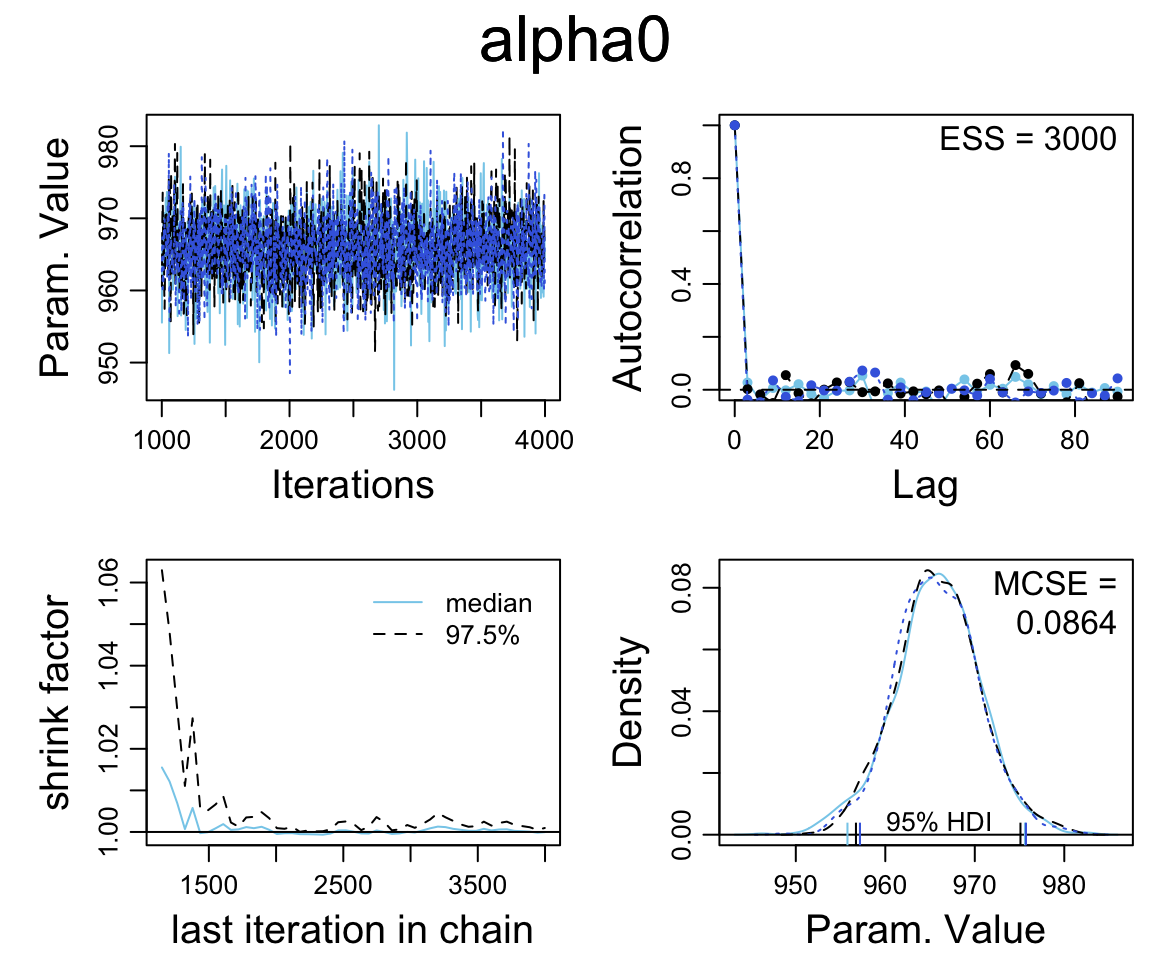
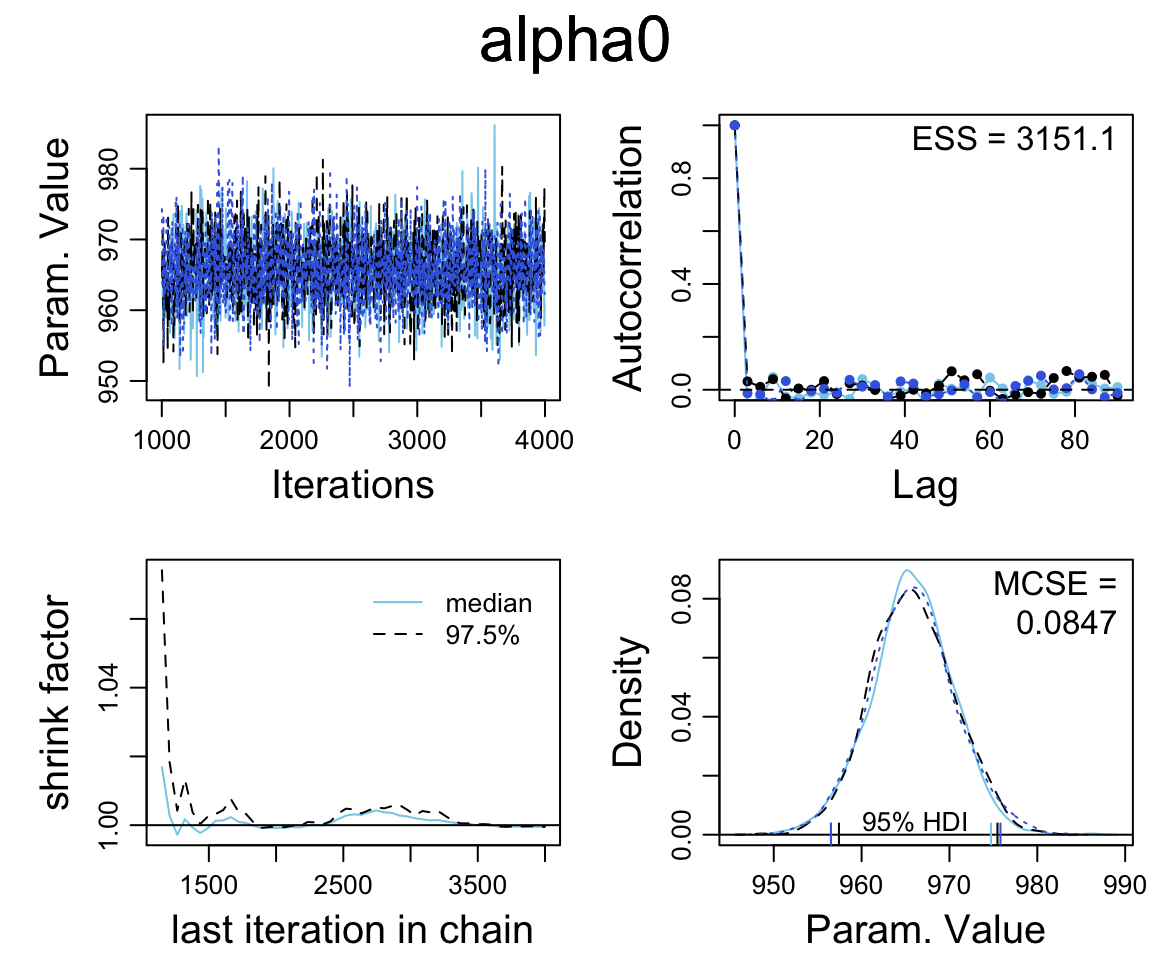
fix typo in prior for sat2_jags

diff --git a/docs/multiple-metric-predictors.html b/docs/multiple-metric-predictors.html
@@ -25,7 +25,7 @@
 <meta name="author" content="R Pruim">
 
 
-<meta name="date" content="2019-04-01">
+<meta name="date" content="2019-04-04">
 
   <meta name="viewport" content="width=device-width, initial-scale=1">
   <meta name="apple-mobile-web-app-capable" content="yes">
@@ -372,7 +372,7 @@ code span.wa { color: #60a0b0; font-weight: bold; font-style: italic; } /* Warni
 <li class="chapter" data-level="17.4.4" data-path="simple-linear-regression.html"><a href="simple-linear-regression.html#posterior-predictive-checks-with-bayesplot"><i class="fa fa-check"></i><b>17.4.4</b> Posterior predictive checks with bayesplot</a></li>
 </ul></li>
 <li class="chapter" data-level="17.5" data-path="simple-linear-regression.html"><a href="simple-linear-regression.html#fitting-models-with-stan"><i class="fa fa-check"></i><b>17.5</b> Fitting models with Stan</a></li>
-<li class="chapter" data-level="17.6" data-path="simple-linear-regression.html"><a href="simple-linear-regression.html#multiple-intercepts-model"><i class="fa fa-check"></i><b>17.6</b> Multiple Intercepts model</a></li>
+<li class="chapter" data-level="17.6" data-path="simple-linear-regression.html"><a href="simple-linear-regression.html#two-intercepts-model"><i class="fa fa-check"></i><b>17.6</b> Two Intercepts model</a></li>
 <li class="chapter" data-level="17.7" data-path="simple-linear-regression.html"><a href="simple-linear-regression.html#ch17-exercises"><i class="fa fa-check"></i><b>17.7</b> Exercises</a></li>
 </ul></li>
 <li class="chapter" data-level="18" data-path="multiple-metric-predictors.html"><a href="multiple-metric-predictors.html"><i class="fa fa-check"></i><b>18</b> Multiple Metric Predictors</a><ul>
@@ -479,7 +479,7 @@ sat_jags &lt;-<span class="st"> </span>
   ) </code></pre>
 <pre><code>## module glm loaded</code></pre>
 <pre class="sourceCode r"><code class="sourceCode r">sat_jags</code></pre>
-<pre><code>## Inference for Bugs model at &quot;/var/folders/py/txwd26jx5rq83f4nn0f5fmmm0000gn/T//Rtmpokg4pX/model146ee5cf83cde.txt&quot;, fit using jags,
+<pre><code>## Inference for Bugs model at &quot;/var/folders/py/txwd26jx5rq83f4nn0f5fmmm0000gn/T//RtmpIDZHjk/model6e140e93c1.txt&quot;, fit using jags,
 ##  3 chains, each with 4000 iterations (first 1000 discarded), n.thin = 3
 ##  n.sims = 3000 iterations saved
 ##          mu.vect sd.vect     2.5%      25%      50%      75%    97.5%  Rhat n.eff
@@ -684,7 +684,7 @@ sat2_jags &lt;-<span class="st"> </span>
       <span class="dt">alpha0mean =</span> <span class="dv">1000</span>,    <span class="co"># SAT scores are roughly 500 + 500</span>
       <span class="dt">alpha0sd   =</span> <span class="dv">100</span>,     <span class="co"># broad prior on scale of 400 - 1600</span>
       <span class="dt">alpha1sd   =</span> <span class="dv">4</span> <span class="op">*</span><span class="st"> </span><span class="kw">sd</span>(SAT<span class="op">$</span>sat) <span class="op">/</span><span class="st"> </span><span class="kw">sd</span>(SAT<span class="op">$</span>expend),
-      <span class="dt">alpha2sd   =</span> <span class="dv">4</span> <span class="op">*</span><span class="st"> </span><span class="kw">sd</span>(SAT<span class="op">$</span>frac) <span class="op">/</span><span class="st"> </span><span class="kw">sd</span>(SAT<span class="op">$</span>expend),
+      <span class="dt">alpha2sd   =</span> <span class="dv">4</span> <span class="op">*</span><span class="st"> </span><span class="kw">sd</span>(SAT<span class="op">$</span>sat) <span class="op">/</span><span class="st"> </span><span class="kw">sd</span>(SAT<span class="op">$</span>frac),
       <span class="dt">sigma_lo =</span> <span class="fl">0.001</span>,
       <span class="dt">sigma_hi =</span> <span class="dv">1000</span>
     ),
@@ -694,23 +694,23 @@ sat2_jags &lt;-<span class="st"> </span>
     <span class="dt">n.chains =</span> <span class="dv">3</span>
   ) </code></pre>
 <pre class="sourceCode r"><code class="sourceCode r">sat2_jags</code></pre>
-<pre><code>## Inference for Bugs model at &quot;/var/folders/py/txwd26jx5rq83f4nn0f5fmmm0000gn/T//Rtmpokg4pX/model146ee3e235688.txt&quot;, fit using jags,
+<pre><code>## Inference for Bugs model at &quot;/var/folders/py/txwd26jx5rq83f4nn0f5fmmm0000gn/T//RtmpIDZHjk/model6e1e0e7029.txt&quot;, fit using jags,
 ##  3 chains, each with 4000 iterations (first 1000 discarded), n.thin = 3
 ##  n.sims = 3000 iterations saved
 ##          mu.vect sd.vect    2.5%     25%     50%      75%    97.5%  Rhat n.eff
-## alpha0   965.816   4.732 956.075 962.785 965.757  968.858  975.342 1.001  3000
-## alpha1    12.905   4.347   4.562  10.017  12.855   15.821   21.667 1.001  2300
-## alpha2    -2.885   0.221  -3.307  -3.034  -2.878   -2.736   -2.453 1.001  3000
-## beta0    991.273  22.460 945.522 976.284 991.808 1006.164 1035.546 1.002  1800
-## log10nu    1.373   0.365   0.640   1.117   1.390    1.639    2.033 1.001  3000
-## sigma     31.551   3.870  24.578  28.898  31.363   33.923   39.866 1.001  3000
-## deviance 491.034   2.965 487.310 488.801 490.390  492.598  498.404 1.002  3000
+## alpha0   965.801   4.754 956.565 962.669 965.735  968.869  975.316 1.001  3000
+## alpha1    12.906   4.345   4.138  10.061  12.994   15.709   21.563 1.001  3000
+## alpha2    -2.885   0.225  -3.318  -3.039  -2.885   -2.734   -2.441 1.001  2000
+## beta0    991.250  22.164 947.709 976.934 990.995 1006.116 1035.153 1.001  3000
+## log10nu    1.379   0.367   0.661   1.118   1.393    1.642    2.048 1.001  2600
+## sigma     31.586   3.807  24.563  28.947  31.409   34.047   39.761 1.001  3000
+## deviance 491.060   3.010 487.234 488.830 490.421  492.588  498.706 1.001  2100
 ## 
 ## For each parameter, n.eff is a crude measure of effective sample size,
 ## and Rhat is the potential scale reduction factor (at convergence, Rhat=1).
 ## 
 ## DIC info (using the rule, pD = var(deviance)/2)
-## pD = 4.4 and DIC = 495.4
+## pD = 4.5 and DIC = 495.6
 ## DIC is an estimate of expected predictive error (lower deviance is better).</code></pre>
 <pre class="sourceCode r"><code class="sourceCode r"><span class="kw">diag_mcmc</span>(<span class="kw">as.mcmc</span>(sat2_jags))
 <span class="kw">mcmc_combo</span>(<span class="kw">as.mcmc</span>(sat2_jags))</code></pre>
@@ -734,31 +734,31 @@ sat2_jags &lt;-<span class="st"> </span>
 <tbody>
 <tr class="odd">
 <td align="left">alpha1</td>
-<td align="right">12.9</td>
-<td align="right">4.347</td>
-<td align="right">4.562</td>
-<td align="right">10.02</td>
-<td align="right">12.86</td>
-<td align="right">15.82</td>
-<td align="right">21.67</td>
+<td align="right">12.91</td>
+<td align="right">4.345</td>
+<td align="right">4.138</td>
+<td align="right">10.06</td>
+<td align="right">12.99</td>
+<td align="right">15.71</td>
+<td align="right">21.56</td>
 <td align="right">1.001</td>
-<td align="right">2300</td>
+<td align="right">3000</td>
 </tr>
 </tbody>
 </table>
 <pre class="sourceCode r"><code class="sourceCode r"><span class="kw">plot_post</span>(<span class="kw">posterior</span>(sat2_jags)<span class="op">$</span>alpha1, <span class="dt">xlab =</span> <span class="st">&quot;alpha1&quot;</span>, <span class="dt">ROPE =</span> <span class="kw">c</span>(<span class="op">-</span><span class="dv">5</span>, <span class="dv">5</span>))</code></pre>
 <p><img src="Redoing_files/figure-html/ch18-sat2-alpha1-1.png" width="576" /></p>
 <pre><code>## $posterior
-##       ESS mean median  mode
-## var1 2584 12.9  12.86 13.37
+##       ESS  mean median  mode
+## var1 2662 12.91  12.99 13.58
 ## 
 ## $hdi
 ##   prob    lo    hi
-## 1 0.95 4.342 21.31
+## 1 0.95 3.742 21.12
 ## 
 ## $ROPE
 ##   lo hi P(&lt; ROPE) P(in ROPE) P(&gt; ROPE)
-## 1 -5  5         0    0.03133    0.9687</code></pre>
+## 1 -5  5         0    0.03733    0.9627</code></pre>
 <pre class="sourceCode r"><code class="sourceCode r"><span class="kw">hdi</span>(sat2_jags, <span class="dt">pars =</span> <span class="st">&quot;alpha1&quot;</span>, <span class="dt">prob =</span> <span class="fl">0.95</span>)</code></pre>
 <table>
 <thead>
@@ -773,22 +773,22 @@ sat2_jags &lt;-<span class="st"> </span>
 <tbody>
 <tr class="odd">
 <td align="left">alpha1</td>
-<td align="right">4.043</td>
-<td align="right">21.28</td>
+<td align="right">4.138</td>
+<td align="right">21.60</td>
 <td align="right">0.95</td>
 <td align="right">1</td>
 </tr>
 <tr class="even">
 <td align="left">alpha1</td>
-<td align="right">5.143</td>
-<td align="right">21.81</td>
+<td align="right">4.354</td>
+<td align="right">21.12</td>
 <td align="right">0.95</td>
 <td align="right">2</td>
 </tr>
 <tr class="odd">
 <td align="left">alpha1</td>
-<td align="right">4.342</td>
-<td align="right">21.25</td>
+<td align="right">4.704</td>
+<td align="right">22.34</td>
 <td align="right">0.95</td>
 <td align="right">3</td>
 </tr>
@@ -814,26 +814,26 @@ sat2_jags &lt;-<span class="st"> </span>
 <tr class="odd">
 <td align="left">alpha2</td>
 <td align="right">-2.885</td>
-<td align="right">0.221</td>
-<td align="right">-3.307</td>
-<td align="right">-3.034</td>
-<td align="right">-2.878</td>
-<td align="right">-2.736</td>
-<td align="right">-2.453</td>
-<td align="right">1</td>
-<td align="right">3000</td>
+<td align="right">0.225</td>
+<td align="right">-3.317</td>
+<td align="right">-3.039</td>
+<td align="right">-2.885</td>
+<td align="right">-2.734</td>
+<td align="right">-2.441</td>
+<td align="right">1.002</td>
+<td align="right">2000</td>
 </tr>
 </tbody>
 </table>
 <pre class="sourceCode r"><code class="sourceCode r"><span class="kw">plot_post</span>(<span class="kw">posterior</span>(sat2_jags)<span class="op">$</span>alpha2, <span class="dt">xlab =</span> <span class="st">&quot;alpha2&quot;</span>)</code></pre>
 <p><img src="Redoing_files/figure-html/ch18-sat2-alpha2-1.png" width="576" /></p>
 <pre><code>## $posterior
-##       ESS   mean median   mode
-## var1 2402 -2.885 -2.878 -2.839
+##       ESS   mean median  mode
+## var1 2504 -2.885 -2.885 -2.88
 ## 
 ## $hdi
 ##   prob     lo     hi
-## 1 0.95 -3.308 -2.453</code></pre>
+## 1 0.95 -3.329 -2.465</code></pre>
 <pre class="sourceCode r"><code class="sourceCode r"><span class="kw">hdi</span>(sat2_jags, <span class="dt">pars =</span> <span class="st">&quot;alpha2&quot;</span>, <span class="dt">prob =</span> <span class="fl">0.95</span>)</code></pre>
 <table>
 <thead>
@@ -848,22 +848,22 @@ sat2_jags &lt;-<span class="st"> </span>
 <tbody>
 <tr class="odd">
 <td align="left">alpha2</td>
-<td align="right">-3.300</td>
-<td align="right">-2.438</td>
+<td align="right">-3.355</td>
+<td align="right">-2.484</td>
 <td align="right">0.95</td>
 <td align="right">1</td>
 </tr>
 <tr class="even">
 <td align="left">alpha2</td>
-<td align="right">-3.318</td>
-<td align="right">-2.479</td>
+<td align="right">-3.329</td>
+<td align="right">-2.490</td>
 <td align="right">0.95</td>
 <td align="right">2</td>
 </tr>
 <tr class="odd">
 <td align="left">alpha2</td>
-<td align="right">-3.286</td>
-<td align="right">-2.439</td>
+<td align="right">-3.327</td>
+<td align="right">-2.465</td>
 <td align="right">0.95</td>
 <td align="right">3</td>
 </tr>
